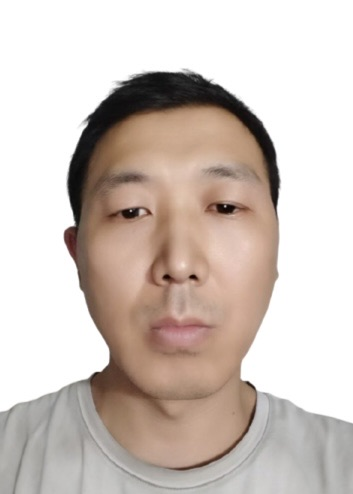
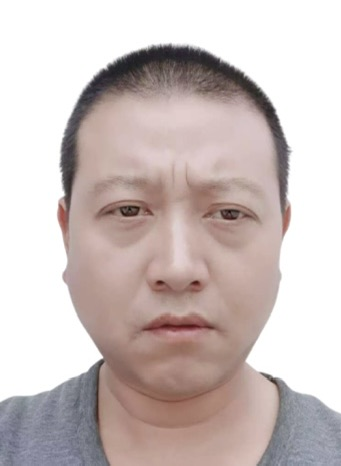
1111

diff --git a/health.html b/health.html
@@ -171,11 +171,11 @@
                                 </tr>
                                  <!-- 海07492100691  44970117  前部分固定形式，后面可变 -->
                                 <tr>
-                                  <td style="font-size: 10px;font-family: 宋体;font-weight: bold;word-break: break-all;">编号:海0749210069109115737
+                                  <td style="font-size: 10px;font-family: 宋体;font-weight: bold;word-break: break-all;">编号:海0749210069103136632
                                   </td>
                                 </tr>
                                 <tr>
-                                  <td style="font-size: 10px;font-family: 宋体;font-weight: bold;">日期:2026-06-26</td>
+                                  <td style="font-size: 10px;font-family: 宋体;font-weight: bold;">日期:2026-09-26</td>
                                 </tr>
                               </tbody>
                             </table>
@@ -201,7 +201,7 @@
                                         </tr>
                                         <tr>
                                           <td><span
-                                              style="font-family:宋体; font-size:11px;color: #000000;FONT-WEIGHT: bold;">身份证号:3622041985********</span>
+                                              style="font-family:宋体; font-size:11px;color: #000000;FONT-WEIGHT: bold;">身份证号:4102251982********</span>
                                           </td>
                                         </tr>
                                       </tbody>
@@ -225,43 +225,43 @@
                                                 <tr align="center">
                                                   <td align="left">细菌性痢疾</td>
                                                   <td>合格</td>
-                                                  <td>2026年06月25日</td>
+                                                  <td>2026年09月25日</td>
                                                 </tr>
 
                                                 <tr align="center">
                                                   <td align="left">伤寒和副伤寒</td>
                                                   <td>合格</td>
-                                                  <td>2026年06月25日</td>
+                                                  <td>2026年09月25日</td>
                                                 </tr>
 
                                                 <tr align="center">
                                                   <td align="left">病毒性肝炎（甲戊肝）</td>
                                                   <td>合格</td>
-                                                  <td>2026年06月25日</td>
+                                                  <td>2026年09月25日</td>
                                                 </tr>
 
                                                 <tr align="center">
                                                   <td align="left">活动性肺结核</td>
                                                   <td>合格</td>
-                                                  <td>2026年06月25日</td>
+                                                  <td>2026年09月25日</td>
                                                 </tr>
 
                                                 <tr align="center">
                                                   <td align="left">化脓性或渗出性皮肤病</td>
                                                   <td>合格</td>
-                                                  <td>2026年06月25日</td>
+                                                  <td>2026年09月25日</td>
                                                 </tr>
 
                                                 <tr align="center">
                                                   <td align="left">霍乱</td>
                                                   <td>合格</td>
-                                                  <td>2026年06月25日</td>
+                                                  <td>2026年09月25日</td>
                                                 </tr>
 
                                                 <tr align="center">
                                                   <td align="left">阿米巴性疾病</td>
                                                   <td>合格</td>
-                                                  <td>2026年06月25日</td>
+                                                  <td>2026年09月25日</td>
                                                 </tr>
 
                                               </tbody>
@@ -324,7 +324,7 @@
                           </td>
                           <td width="110"><span
                               style="font-family:黑体; font-size:14px;color: #000000;FONT-WEIGHT: bold;">
-                              2026年06月25日</span></td>
+                              2026年09月25日</span></td>
                         </tr>
                         <tr>
                           <td>
@@ -417,7 +417,7 @@
               身份证号码
             </td>
             <td colspan="8" style="border-right: 1px solid black;">
-              &nbsp;3622041985********&nbsp;
+              &nbsp;4102251982********&nbsp;
             </td>
           </tr>
           <tr>
@@ -467,7 +467,7 @@
               &nbsp;崔亚欣&nbsp;
             </td>
             <td style="border-right: 1px solid black;">
-              &nbsp;2026年06月25日&nbsp;
+              &nbsp;2026年09月25日&nbsp;
             </td>
           </tr>
           <tr>
@@ -487,7 +487,7 @@
               &nbsp;崔亚欣&nbsp;
             </td>
             <td style="border-right: 1px solid black;">
-              &nbsp;2026年06月25日&nbsp;
+              &nbsp;2026年09月25日&nbsp;
             </td>
           </tr>
           <tr style="padding-top: 10px">
@@ -508,7 +508,7 @@
               &nbsp;王梦丽&nbsp;
             </td>
             <td style="border-right: 1px solid black;">
-              &nbsp;2026年06月25日&nbsp;
+              &nbsp;2026年09月25日&nbsp;
             </td>
           </tr>
           <tr>
@@ -528,7 +528,7 @@
               &nbsp;宋新春&nbsp;
             </td>
             <td style="border-right: 1px solid black;">
-              &nbsp;2026年06月25日&nbsp;
+              &nbsp;2026年09月25日&nbsp;
             </td>
           </tr>
           <tr>
@@ -548,7 +548,7 @@
               &nbsp;刘新武&nbsp;
             </td>
             <td style="border-right: 1px solid black;">
-              &nbsp;2026年06月25日&nbsp;
+              &nbsp;2026年09月25日&nbsp;
             </td>
           </tr>
           <tr style="padding-top: 10px">
@@ -589,7 +589,7 @@
               &nbsp;崔亚欣&nbsp;
             </td>
             <td style="border-right: 1px solid black;">
-              &nbsp;2026年06月25日&nbsp;
+              &nbsp;2026年09月25日&nbsp;
             </td>
           </tr>
           <tr>
@@ -609,7 +609,7 @@
               &nbsp;崔亚欣&nbsp;
             </td>
             <td style="border-right: 1px solid black;">
-              &nbsp;2026年06月25日&nbsp;
+              &nbsp;2026年09月25日&nbsp;
             </td>
           </tr>
           <tr>
@@ -674,7 +674,7 @@
             <td>（盖章有效）</td>
             <td width="280px"></td>
             <td>日期：</td>
-            <td>&nbsp;2026年06月25日</td>
+            <td>&nbsp;2026年09月25日</td>
           </tr>
           <tr height="50px">
             <td colspan="4">&nbsp;</td>
@@ -755,7 +755,7 @@
             </tr>
             <tr>
               <td style="font-size:15px;text-align: right">
-                报告日期：2026年06月25日&nbsp;&nbsp;&nbsp;&nbsp;&nbsp;&nbsp;&nbsp;&nbsp;&nbsp;&nbsp;&nbsp;&nbsp;</td>
+                报告日期：2026年09月25日&nbsp;&nbsp;&nbsp;&nbsp;&nbsp;&nbsp;&nbsp;&nbsp;&nbsp;&nbsp;&nbsp;&nbsp;</td>
             </tr>
           </tbody>
         </table>
@@ -774,7 +774,7 @@
               <td>（盖章有效）</td>
               <td width="280px"></td>
               <td>日期：</td>
-              <td>&nbsp;2026年06月25日</td>
+              <td>&nbsp;2026年09月25日</td>
             </tr>
             <tr height="50px">
               <td colspan="4">&nbsp;</td>
@@ -832,7 +832,7 @@
 
             <tr>
               <td style="font-size:15px;text-align: right" colspan="2">
-                报告日期：2026年06月25日&nbsp;&nbsp;&nbsp;&nbsp;&nbsp;&nbsp;&nbsp;&nbsp;&nbsp;&nbsp;&nbsp;&nbsp;</td>
+                报告日期：2026年09月25日&nbsp;&nbsp;&nbsp;&nbsp;&nbsp;&nbsp;&nbsp;&nbsp;&nbsp;&nbsp;&nbsp;&nbsp;</td>
             </tr>
 
           </tbody>
@@ -852,7 +852,7 @@
               <td>（盖章有效）</td>
               <td width="280px"></td>
               <td>日期：</td>
-              <td>&nbsp;2026年06月25日</td>
+              <td>&nbsp;2026年09月25日</td>
             </tr>
             <tr height="50px">
               <td colspan="4">&nbsp;</td>
